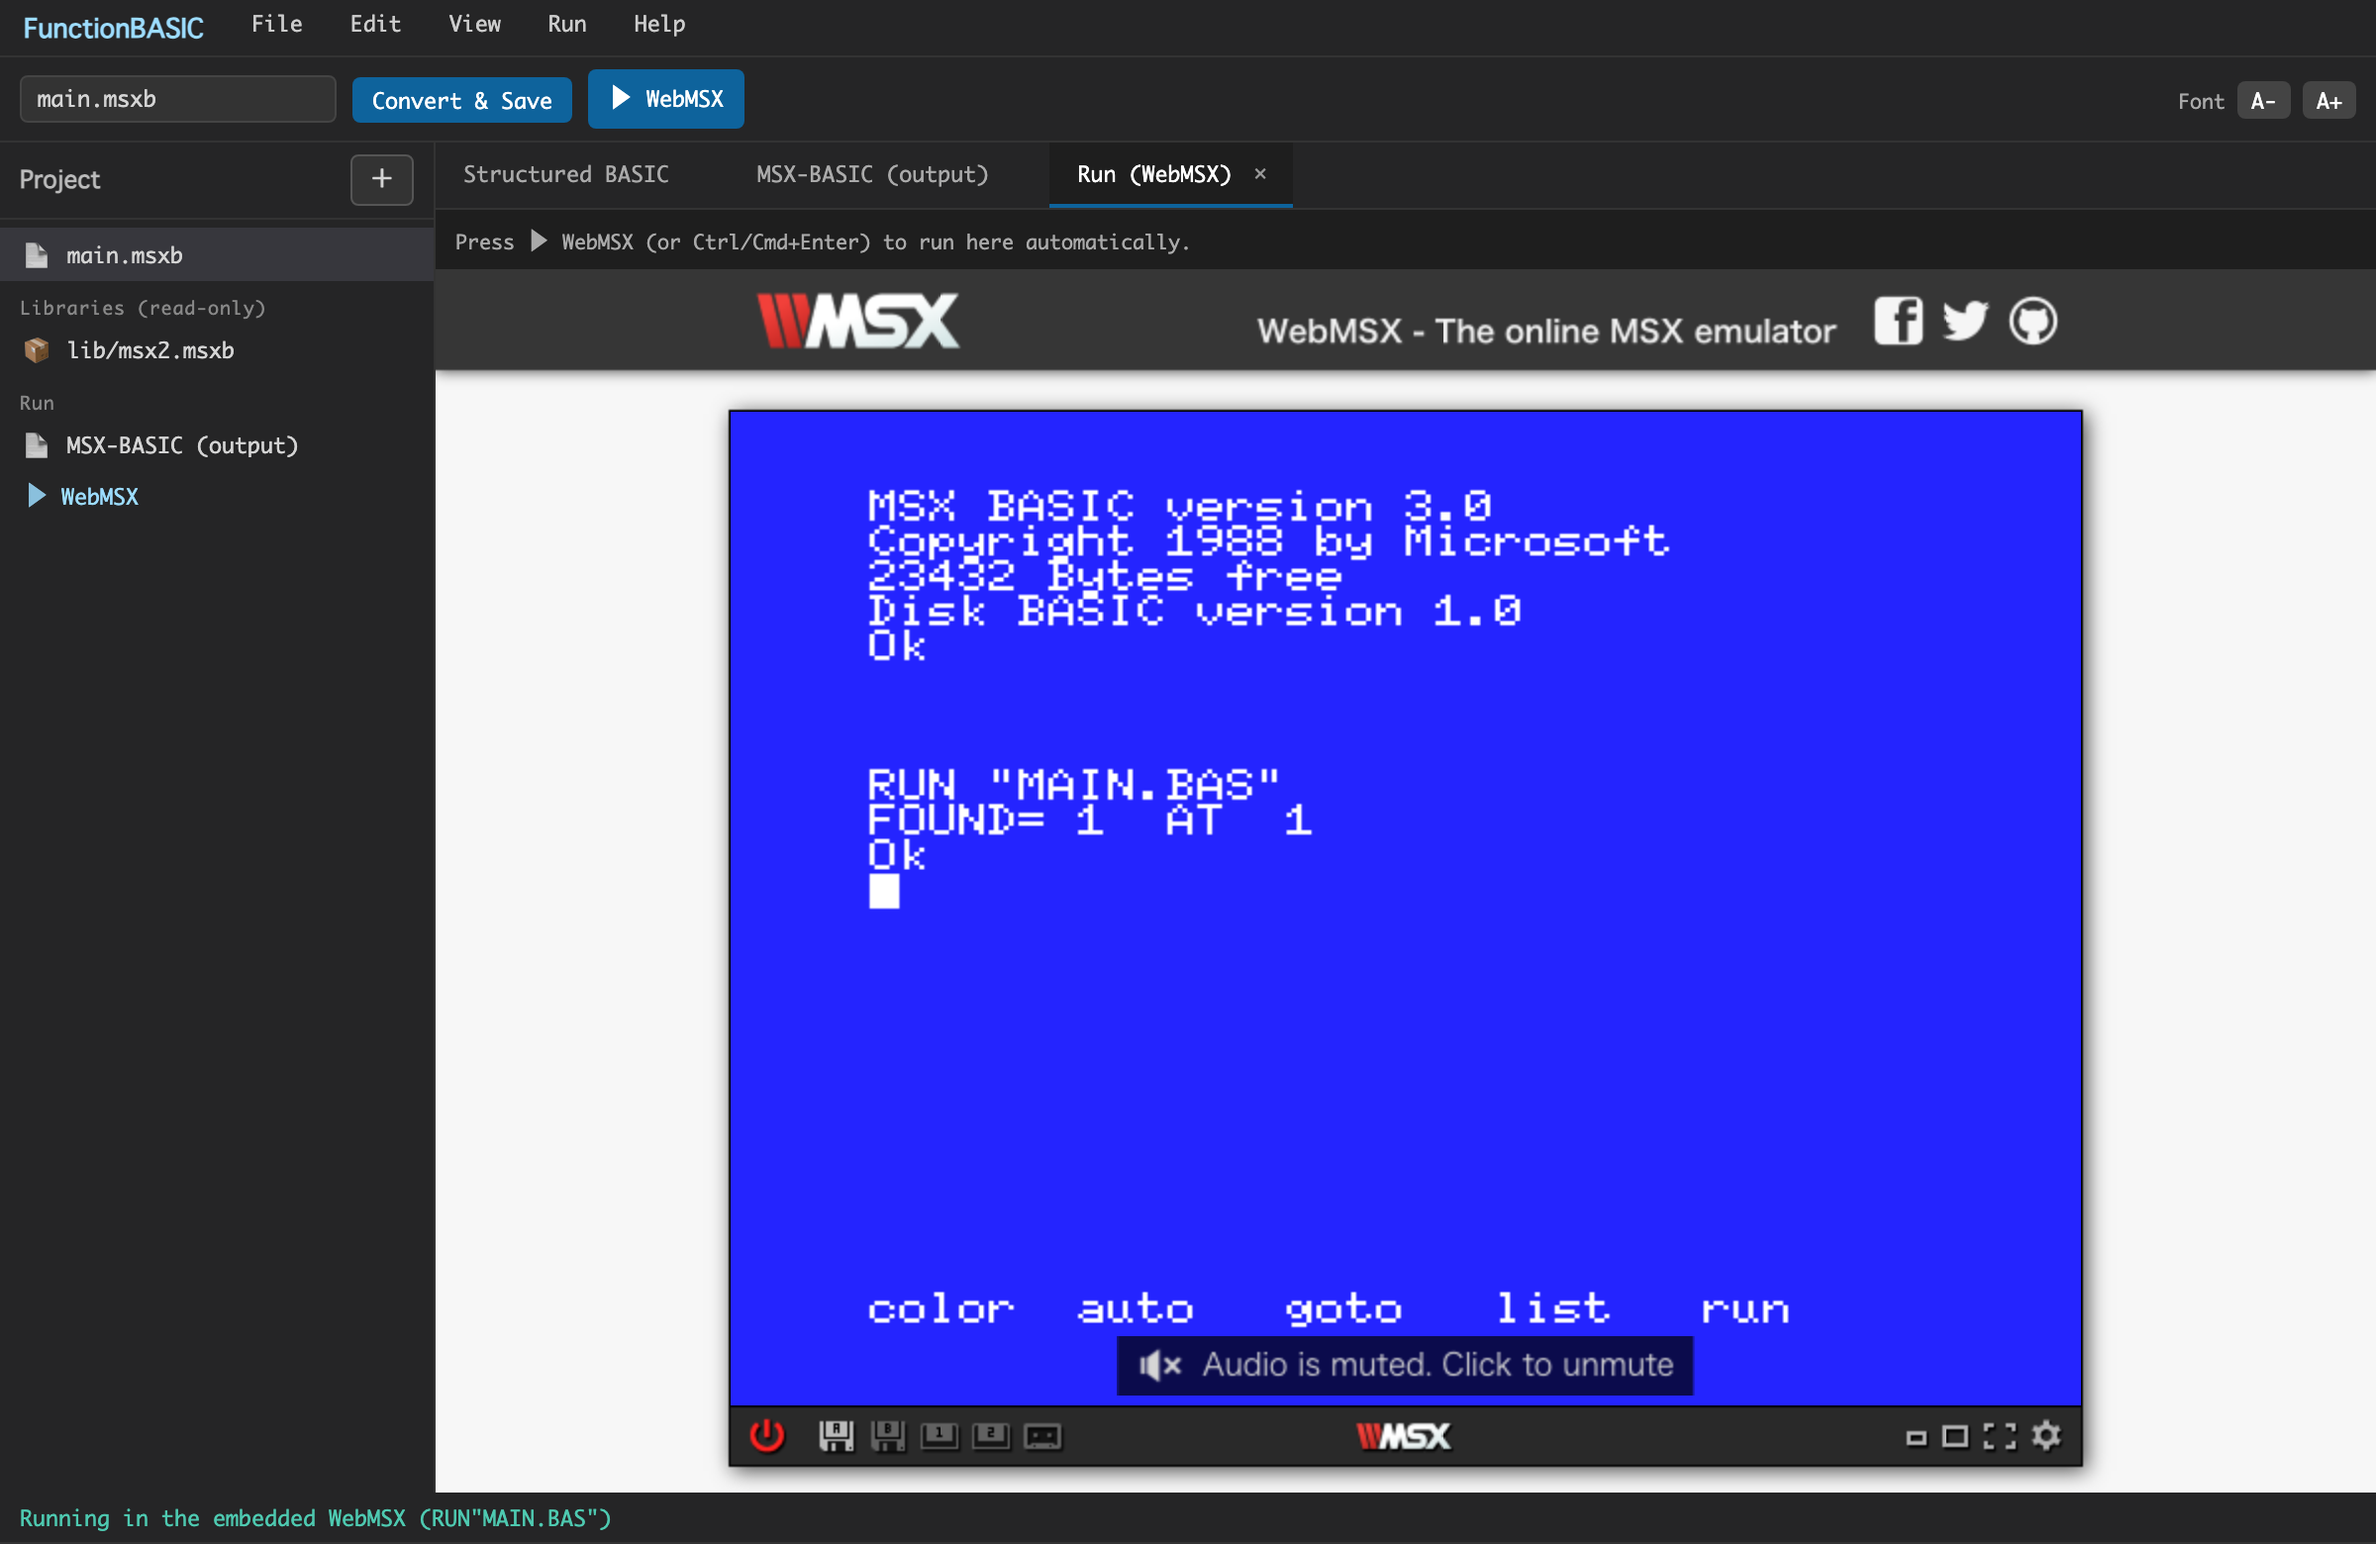
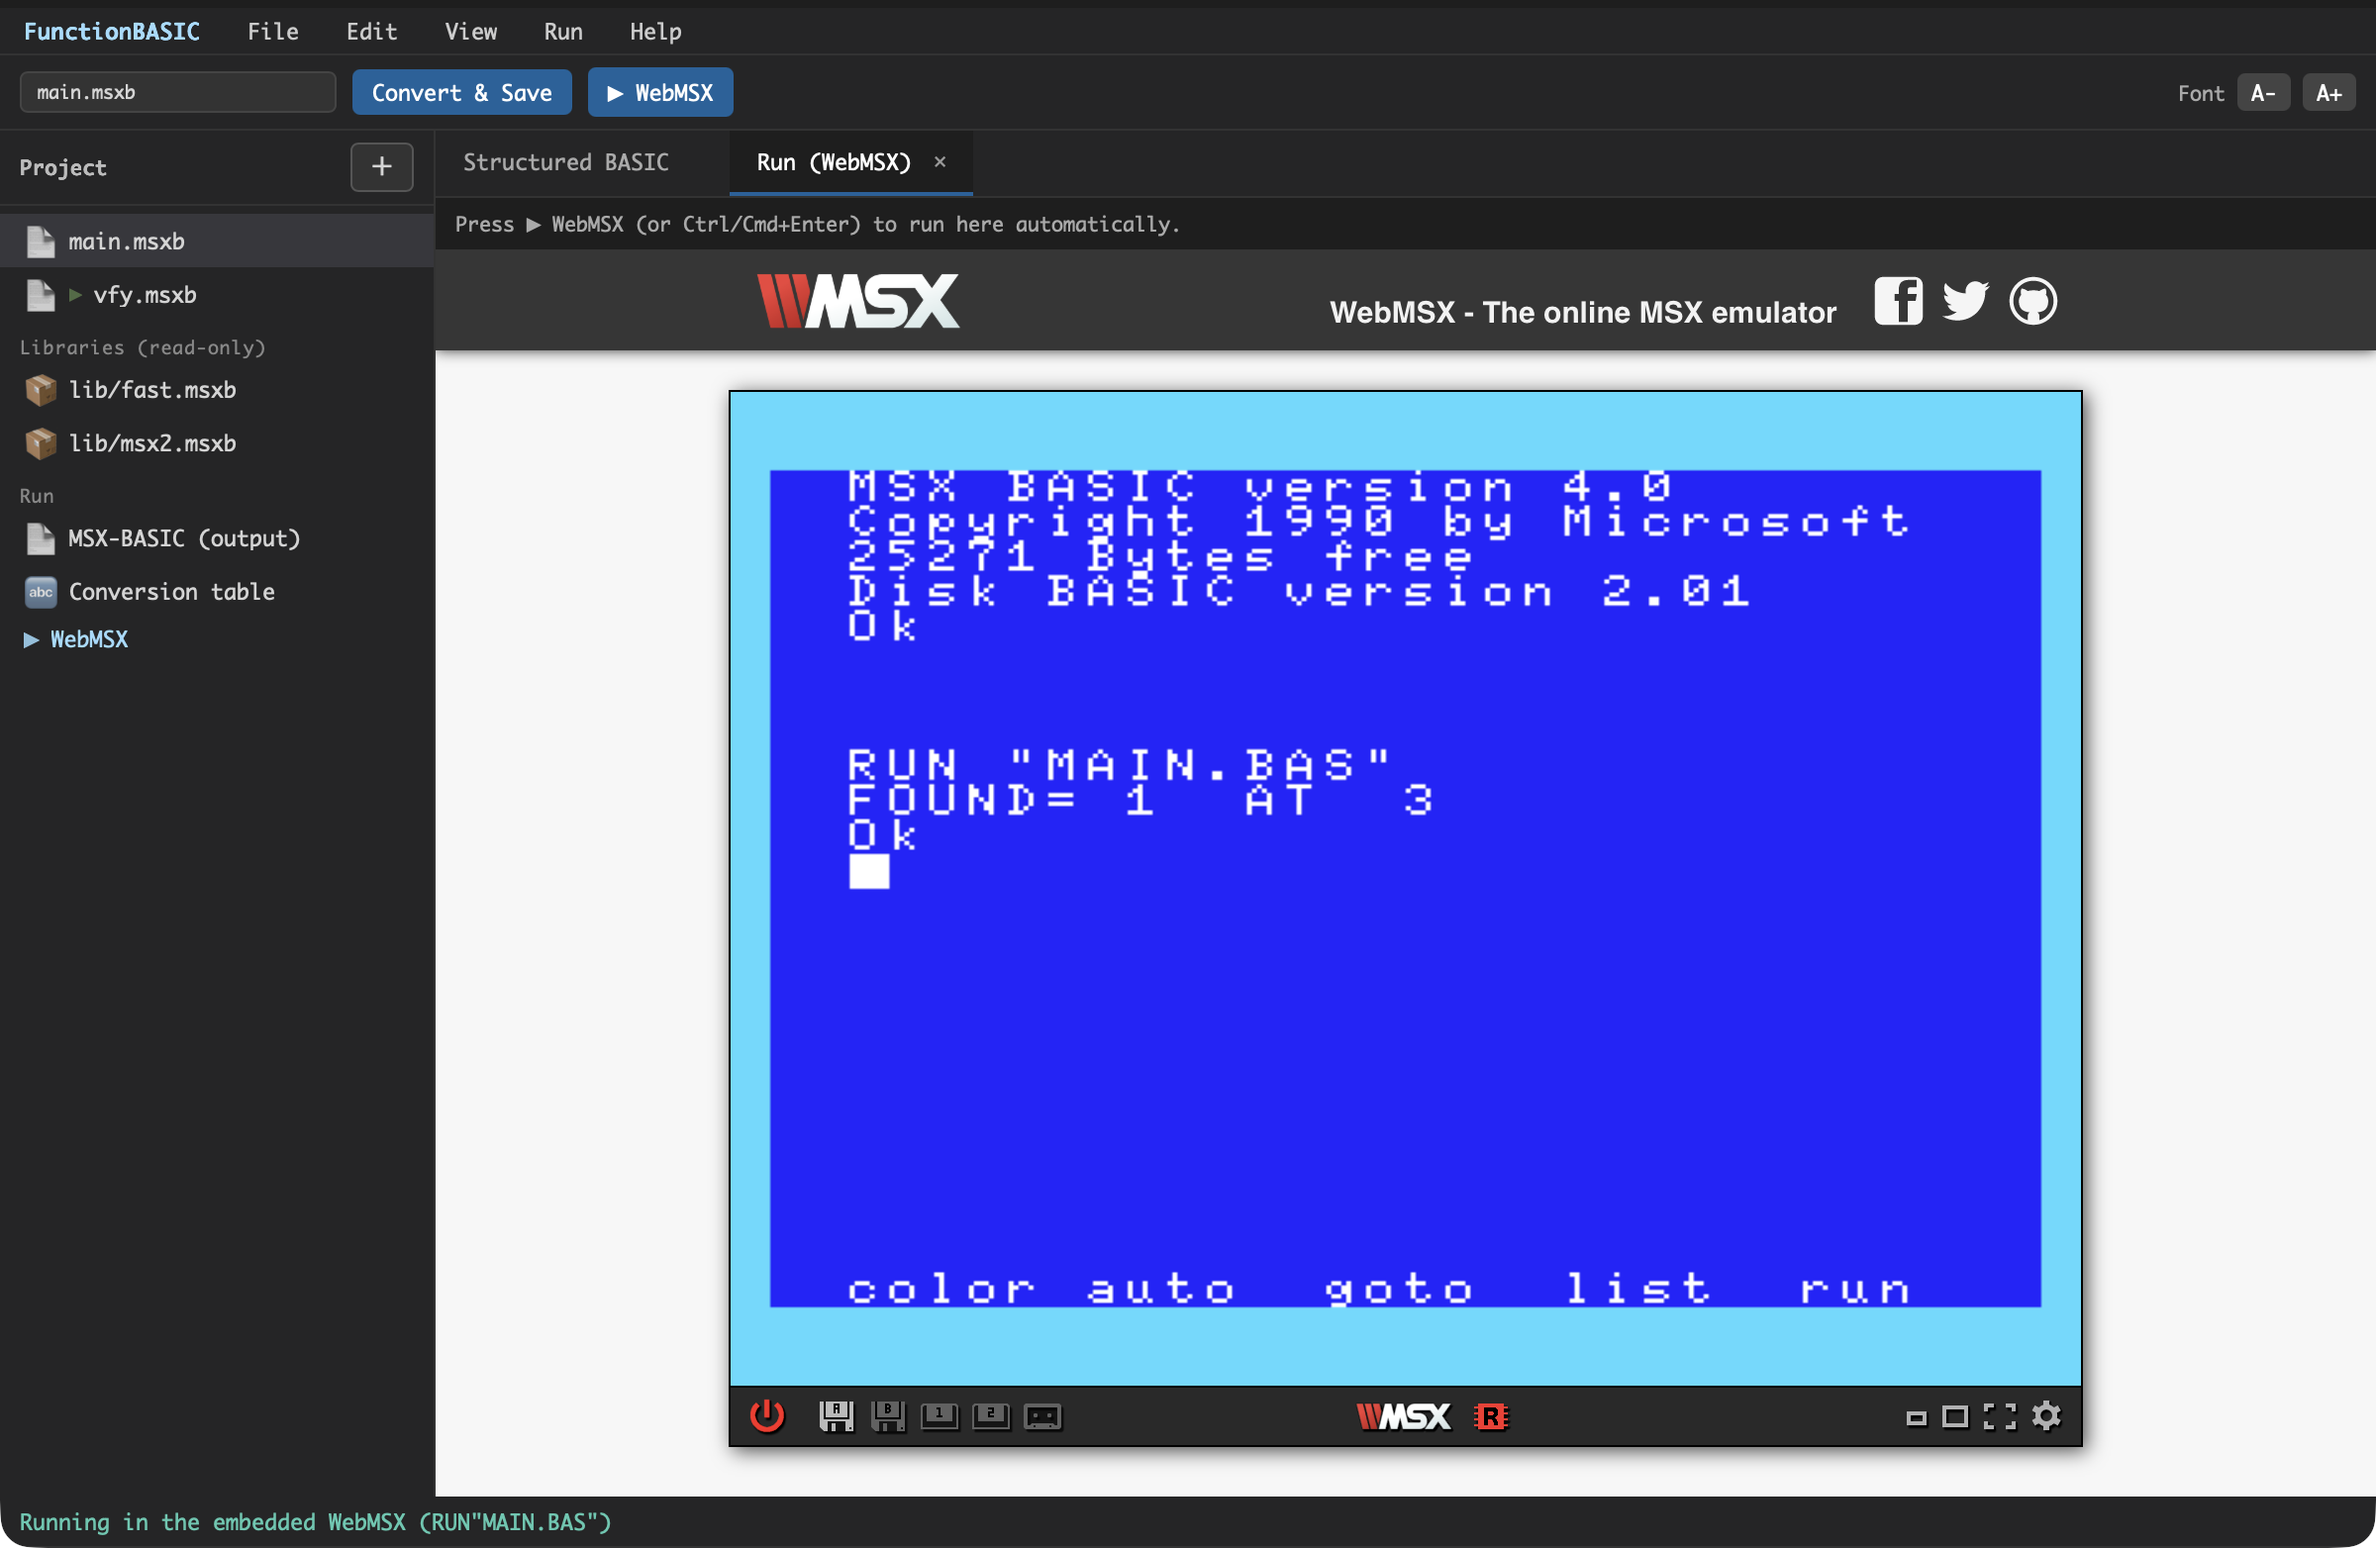
fix(docs): デモの配列0初期化バグ修正＋初期サンプル修正＋ヒーロー画像撮り直し
MSX-BASIC は DIM で数値配列を 0 初期化するため、旧デモの A(3)=0 は無意味
(A(1)が既に0)で結果が誤って FOUND=1 AT 1 になっていた。配列を 1..10 で埋めて
から index 3 に 0 を置く正しい形に修正 → FOUND=1 AT 3。

- editor/app.js: 新規プロジェクトの初期サンプル(SAMPLE)を修正版に(fill loop 追加)。
- examples/find-zero.msxb 新規(正しい完全プログラム)。
- test/transform.test.ts のゴールデン出力＋REF置換テストを更新。
- README 英日のスニペットを完全プログラム＋配列0初期化の注記に更新。
- docs/images の convert/run × en/ja 全4枚を撮り直し(デスクトップ版・WebMSXで
  FOUND=1 AT 3 を実行確認。ウィンドウ単体撮影で背景/壁紙の写り込みを排除、
  4枚とも同一サイズ 2400x1564)。

diff --git a/test/transform.test.ts b/test/transform.test.ts
@@ -11,7 +11,9 @@ const compile = (src: string) => {
   return { code, diagnostics: [...ld, ...pd, ...td], msx: renderMsx(code) };
 };
 
-const FIND_ZERO = `' 配列の中から最初に 0 を見つけて返す
+// examples/find-zero.msxb と同一の正しいデモ。MSX-BASIC は DIM 直後、数値配列の全要素が 0 なので
+// まず 1..10 で埋めてから 3 番目だけ 0 に戻す（そうしないと最初の 0 は既定値の要素＝index 1 になる）。
+const FIND_ZERO = `' find the first zero in an array
 FUNCTION FIND_ZERO(REF IDX)
     GLOBAL A
     FOR I = 1 TO 10
@@ -24,26 +26,34 @@ FUNCTION FIND_ZERO(REF IDX)
 END FUNCTION
 
 DIM A(10)
+' arrays start all-zero on DIM, so fill 1..10 first, then plant one 0
+FOR I = 1 TO 10
+    A(I) = I
+NEXT I
 A(3) = 0
-RESULT = FIND_ZERO(PX)
-PRINT "FOUND="; RESULT; " AT "; PX`;
+RESULT = FIND_ZERO(WHERE)
+PRINT "FOUND="; RESULT; " AT "; WHERE`;
 
 test("FIND_ZERO ゴールデン出力", () => {
   const { msx, diagnostics } = compile(FIND_ZERO);
   assert.deepEqual(diagnostics, []);
   const expected = [
     "100 ' === MAIN ===",
-    "110 ' 配列の中から最初に 0 を見つけて返す",
+    "110 ' find the first zero in an array",
     "120 DIM A(10)",
-    "130 A(3)=0",
-    "140 GOSUB 1000: B=E",
-    '150 PRINT "FOUND=";B;" AT ";C',
-    "160 END",
-    "1000 ' === FUNCTION FIND_ZERO (IDX->C) ===",
-    "1010 FOR D=1 TO 10",
-    "1020 IF A(D)=0 THEN C=D: E=1: RETURN",
+    "130 ' arrays start all-zero on DIM, so fill 1..10 first, then plant one 0",
+    "140 FOR B=1 TO 10",
+    "150 A(B)=B",
+    "160 NEXT",
+    "170 A(3)=0",
+    "180 GOSUB 1000: C=F",
+    '190 PRINT "FOUND=";C;" AT ";D',
+    "200 END",
+    "1000 ' === FUNCTION FIND_ZERO (IDX->D) ===",
+    "1010 FOR E=1 TO 10",
+    "1020 IF A(E)=0 THEN D=E: F=1: RETURN",
     "1030 NEXT",
-    "1040 E=0: RETURN",
+    "1040 F=0: RETURN",
   ].join("\r\n");
   assert.equal(msx, expected);
 });
@@ -58,11 +68,12 @@ test("行番号は昇順・重複なし、GOSUBは数値解決済み", () => {
 
 test("REF名前置換: 呼び出し側の実変数を関数内で直接書き換える（ゼロコピー）", () => {
   const { msx } = compile(FIND_ZERO);
-  // IDX は PX の割当名 C に置換され、関数内で C= が直接現れる（受渡変数やコピーバックは無い）
-  assert.match(msx, /THEN C=D/);
-  // 実行コードに IDX= のような構造化名の代入は残らない（コメント内の "IDX->C" 注記は可）
+  // IDX は WHERE の割当名 D に置換され、関数内で D= が直接現れる（受渡変数やコピーバックは無い）
+  assert.match(msx, /THEN D=E/);
+  // 実行コードに IDX= のような構造化名の代入は残らない（コメント内の "IDX->D" 注記は可）
   assert.ok(!/\bIDX=/.test(msx), "IDX への代入は出力に残らない");
-  assert.ok(!/=PX\b|PX=/.test(msx.replace(/PRINT.*/g, "")), "受渡変数/コピーバックが無い");
+  // REF 実引数名 WHERE は割当名へ置換され、受渡変数/コピーバックとして残らない
+  assert.ok(!/\bWHERE\b/.test(msx.replace(/'.*/g, "")), "受渡変数/コピーバックが無い");
 });
 
 test("再帰はソフトスタックで変換される（エラーにしない）", () => {

diff --git a/editor/app.js b/editor/app.js
@@ -876,6 +876,11 @@ FUNCTION FIND_ZERO(REF IDX)
 END FUNCTION
 
 DIM A(10)
+' MSX-BASIC は DIM で数値配列を 0 初期化するので、まず 1..10 で埋めてから 3 番目だけ 0 に戻す
+' arrays start all-zero on DIM, so fill 1..10 first, then plant one 0
+FOR I = 1 TO 10
+    A(I) = I
+NEXT I
 A(3) = 0
 RESULT = FIND_ZERO(WHERE)
 PRINT "FOUND="; RESULT; " AT "; WHERE

diff --git a/README.md b/README.md
@@ -339,6 +339,7 @@ Two showcases, two philosophies: **the shooter** shows how to drop to inline Z80
 A representative snippet — a function with a `REF` parameter and an early `RETURN`, scanning an array for the first zero:
 
 ```basic
+' find the first zero in an array
 FUNCTION FIND_ZERO(REF IDX)
     GLOBAL A
     FOR I = 1 TO 10
@@ -349,9 +350,18 @@ FUNCTION FIND_ZERO(REF IDX)
     NEXT I
     RETURN 0
 END FUNCTION
+
+DIM A(10)
+' arrays start all-zero on DIM, so fill 1..10 first, then plant one 0
+FOR I = 1 TO 10
+    A(I) = I
+NEXT I
+A(3) = 0
+RESULT = FIND_ZERO(WHERE)
+PRINT "FOUND="; RESULT; " AT "; WHERE
 ```
 
-Each `FUNCTION` becomes a `GOSUB` routine and every long name gets a unique 2-character MSX variable.
+Each `FUNCTION` becomes a `GOSUB` routine and every long name gets a unique 2-character MSX variable. (MSX-BASIC zero-fills numeric arrays on `DIM`, so the array is seeded before the search — otherwise the "first zero" would trivially be index 1.) Full program: [`examples/find-zero.msxb`](examples/find-zero.msxb).
 
 More, all convert-tested: a **multicolour sprite** trick (two hardware sprites stacked at the same spot for two colours — a self-bouncing cat) in [`examples/cat-sprite.msxb`](examples/cat-sprite.msxb); a **game-loop skeleton** (`WHILE 1 … WEND` with `BREAK` on fire); an MSX2 **`SCREEN 5` graphics + BGM/SE** demo (custom palette, `LINE …,BF` / `CIRCLE` / `PAINT`, `SET PAGE` double-buffering, `COPY`, `PLAY`, `SOUND`) in [`examples/msx2-graphics-sound.msxb`](examples/msx2-graphics-sound.msxb); and a **recursion** showcase (factorial / Fibonacci / mutual) in [`examples/recursion.msxb`](examples/recursion.msxb). Browse [`examples/`](examples/) and the per-feature [`examples/cookbook/`](examples/cookbook/).
 
@@ -771,6 +781,7 @@ DATA 62, 42, 205, 162, 0, ...
 代表的なスニペット — `REF` 引数と早期 `RETURN` を持つ関数で、配列から最初の 0 を探す：
 
 ```basic
+' find the first zero in an array
 FUNCTION FIND_ZERO(REF IDX)
     GLOBAL A
     FOR I = 1 TO 10
@@ -781,9 +792,18 @@ FUNCTION FIND_ZERO(REF IDX)
     NEXT I
     RETURN 0
 END FUNCTION
+
+DIM A(10)
+' arrays start all-zero on DIM, so fill 1..10 first, then plant one 0
+FOR I = 1 TO 10
+    A(I) = I
+NEXT I
+A(3) = 0
+RESULT = FIND_ZERO(WHERE)
+PRINT "FOUND="; RESULT; " AT "; WHERE
 ```
 
-各 `FUNCTION` は `GOSUB` ルーチンになり、長い名前はそれぞれ一意の2文字MSX変数へ割り当てられます。
+各 `FUNCTION` は `GOSUB` ルーチンになり、長い名前はそれぞれ一意の2文字MSX変数へ割り当てられます。（MSX-BASIC は `DIM` で数値配列を 0 で初期化するため、探索前に配列を埋めています。埋めないと「最初の 0」は自明に index 1 になってしまいます。）完全なプログラム: [`examples/find-zero.msxb`](examples/find-zero.msxb)。
 
 その他（すべて変換確認済み）：**多色スプライト技**（同じ位置に2枚のハードウェアスプライトを重ねて2色に＝自分で跳ね回る猫）は [`examples/cat-sprite.msxb`](examples/cat-sprite.msxb)；**ゲームループの雛形**（`WHILE 1 … WEND` ＋ 発射で `BREAK`）；MSX2 の **`SCREEN 5` グラフィック＋BGM/SE** デモ（独自パレット、`LINE …,BF` / `CIRCLE` / `PAINT`、`SET PAGE` ダブルバッファ、`COPY`、`PLAY`、`SOUND`）は [`examples/msx2-graphics-sound.msxb`](examples/msx2-graphics-sound.msxb)；**再帰**のショーケース（階乗／フィボナッチ／相互再帰）は [`examples/recursion.msxb`](examples/recursion.msxb)。[`examples/`](examples/) と機能別の [`examples/cookbook/`](examples/cookbook/) もどうぞ。
 
